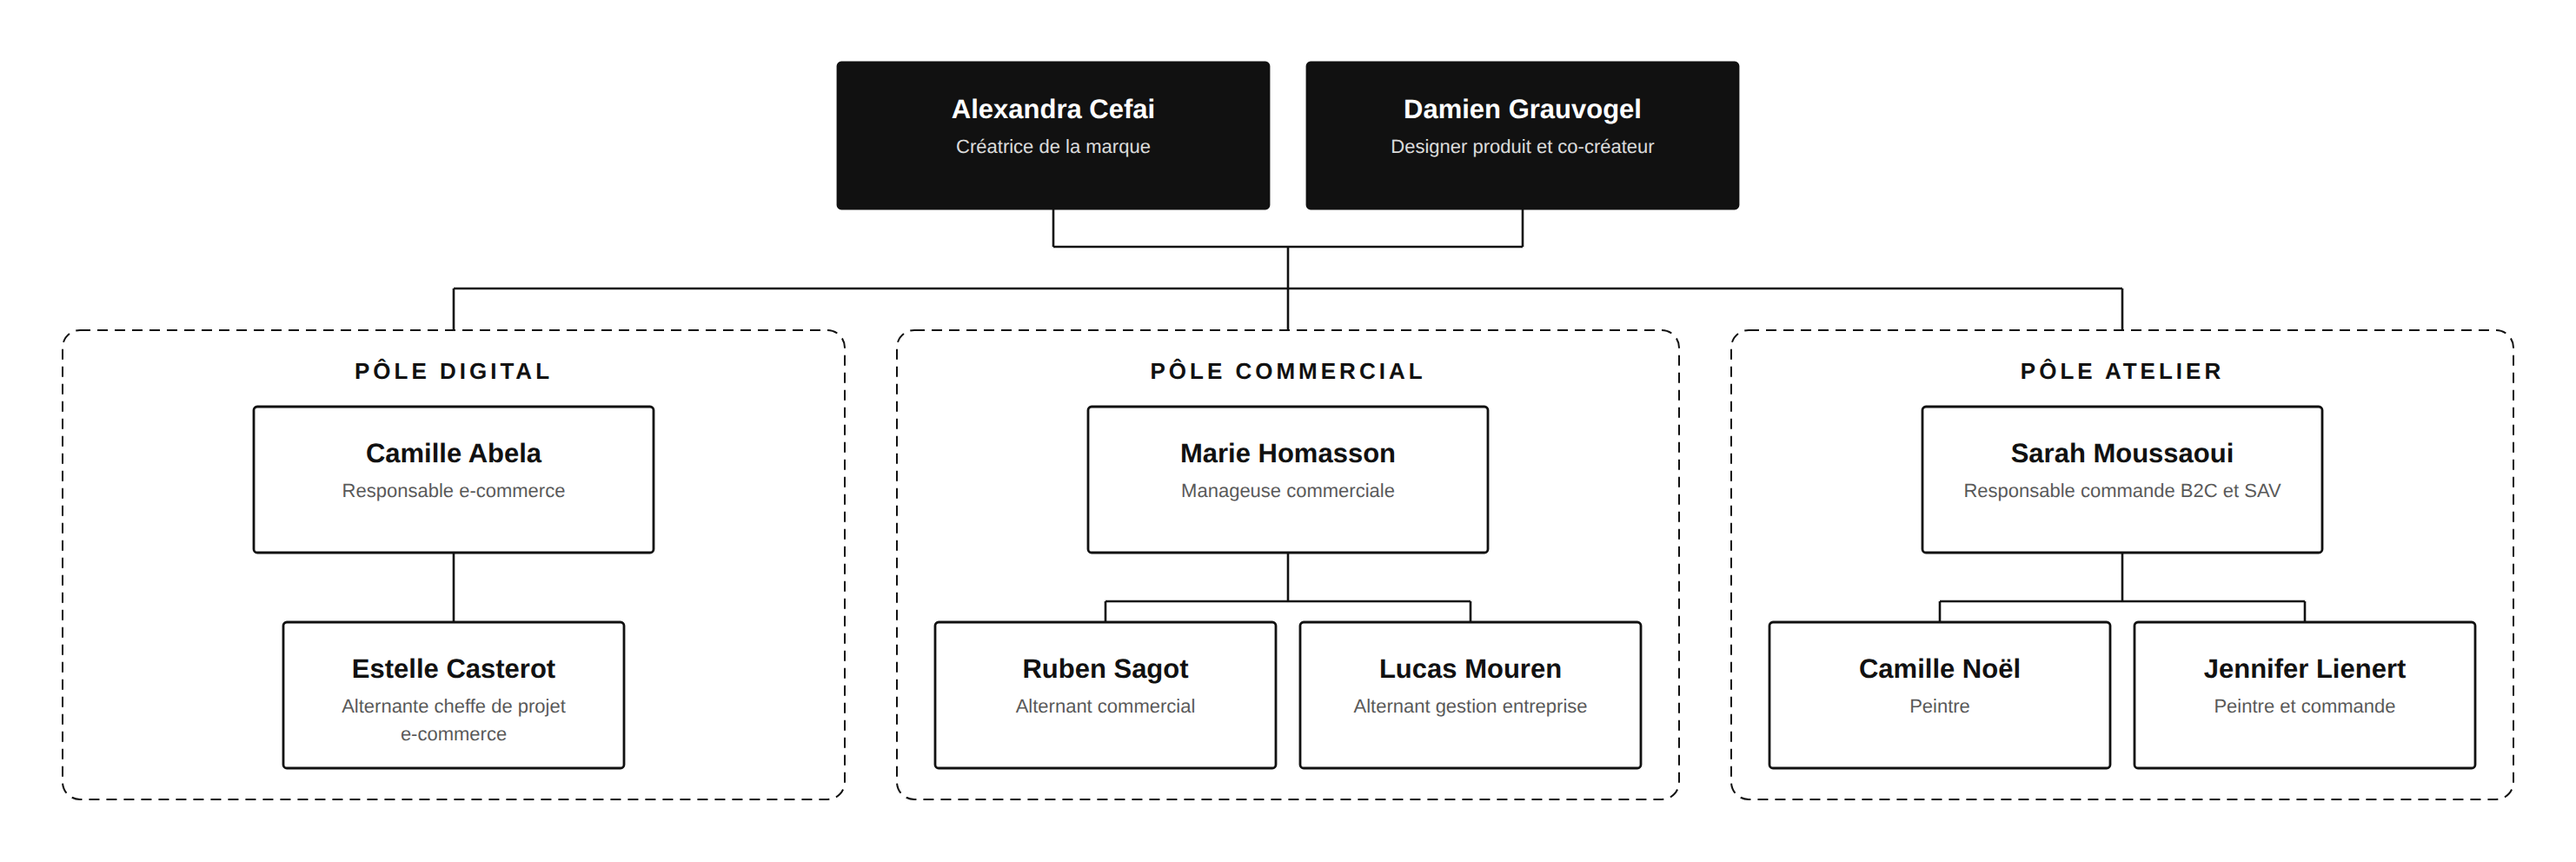
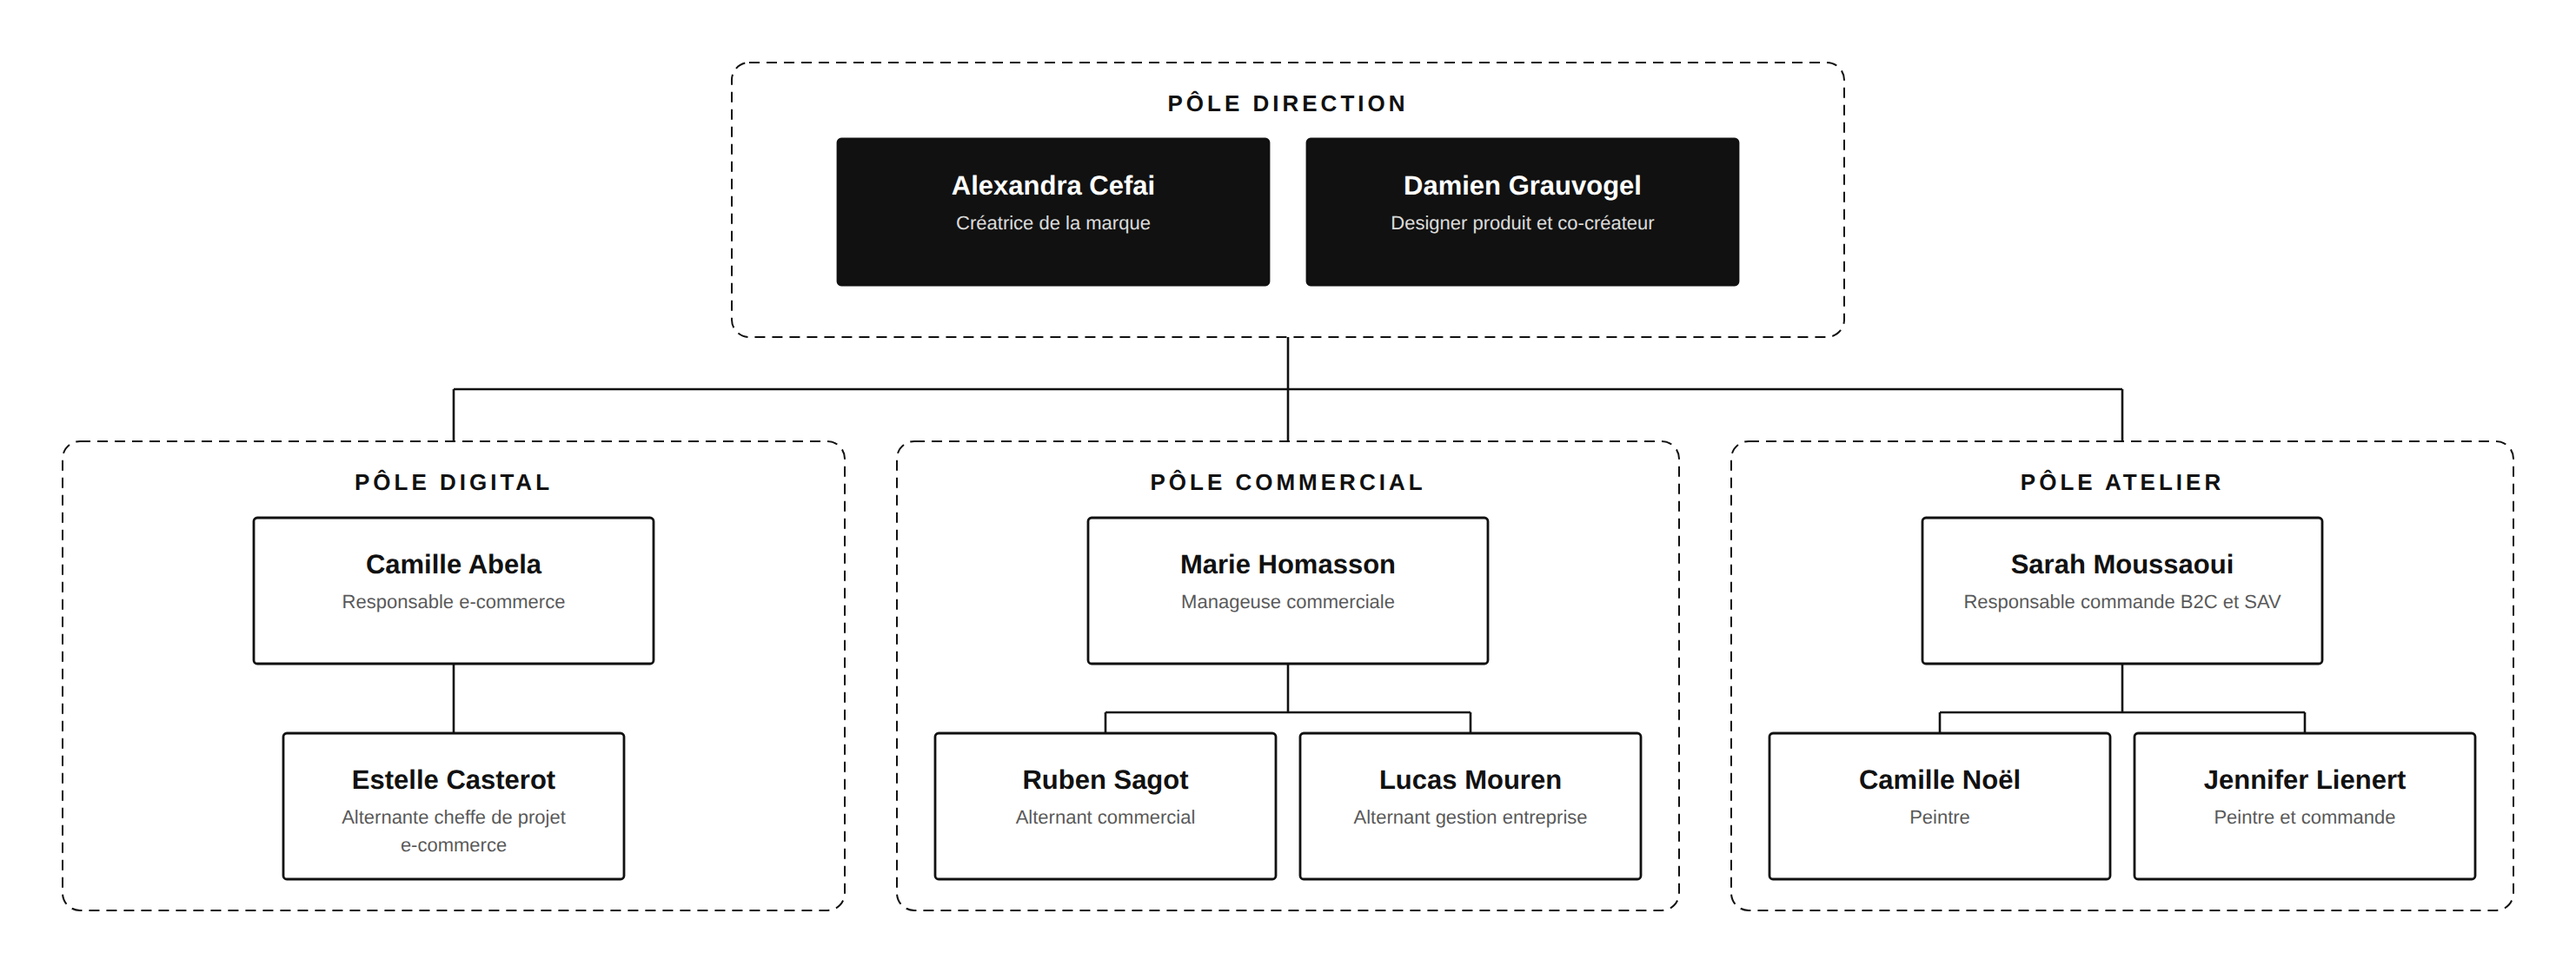
style(bc3): ajoute le Pôle Direction encadré à l'organigramme par pôles
Claude-Session: https://claude.ai/code/session_013XZsCkVv1YrHfxt73dcWQ8

diff --git a/dossier-bc3/build_organigramme_poles.py b/dossier-bc3/build_organigramme_poles.py
@@ -54,17 +54,17 @@ def frame(cx, top, w, h, label):
 # ---------- géométrie
 DW, RW, TW = 248, 230, 196
 dig, com, ate = 330, 810, 1290
-Ftop, FW, FH = 214, 450, 270
+Ftop, FW, FH = 258, 450, 270
 
-# direction
-box(675, 60, DW, "Alexandra Cefai", "Créatrice de la marque", dark=True)
-box(945, 60, DW, "Damien Grauvogel", "Designer produit et co-créateur", dark=True)
-line(675, 144, 675, 166); line(945, 144, 945, 166); line(675, 166, 945, 166)
-line(810, 166, 810, 190)
+# pôle direction (encadré comme les autres)
+frame(810, 40, 640, 158, "PÔLE DIRECTION")
+box(675, 84, DW, "Alexandra Cefai", "Créatrice de la marque", dark=True)
+box(945, 84, DW, "Damien Grauvogel", "Designer produit et co-créateur", dark=True)
 
-# bus vers les pôles
-line(dig, 190, ate, 190)
-for c in (dig, com, ate): line(c, 190, c, Ftop)
+# bus vers les pôles (depuis le bas du cadre direction)
+line(810, 198, 810, 228)
+line(dig, 228, ate, 228)
+for c in (dig, com, ate): line(c, 228, c, Ftop)
 
 def pole(cx, label, resp, team):
     frame(cx, Ftop, FW, FH, label)
